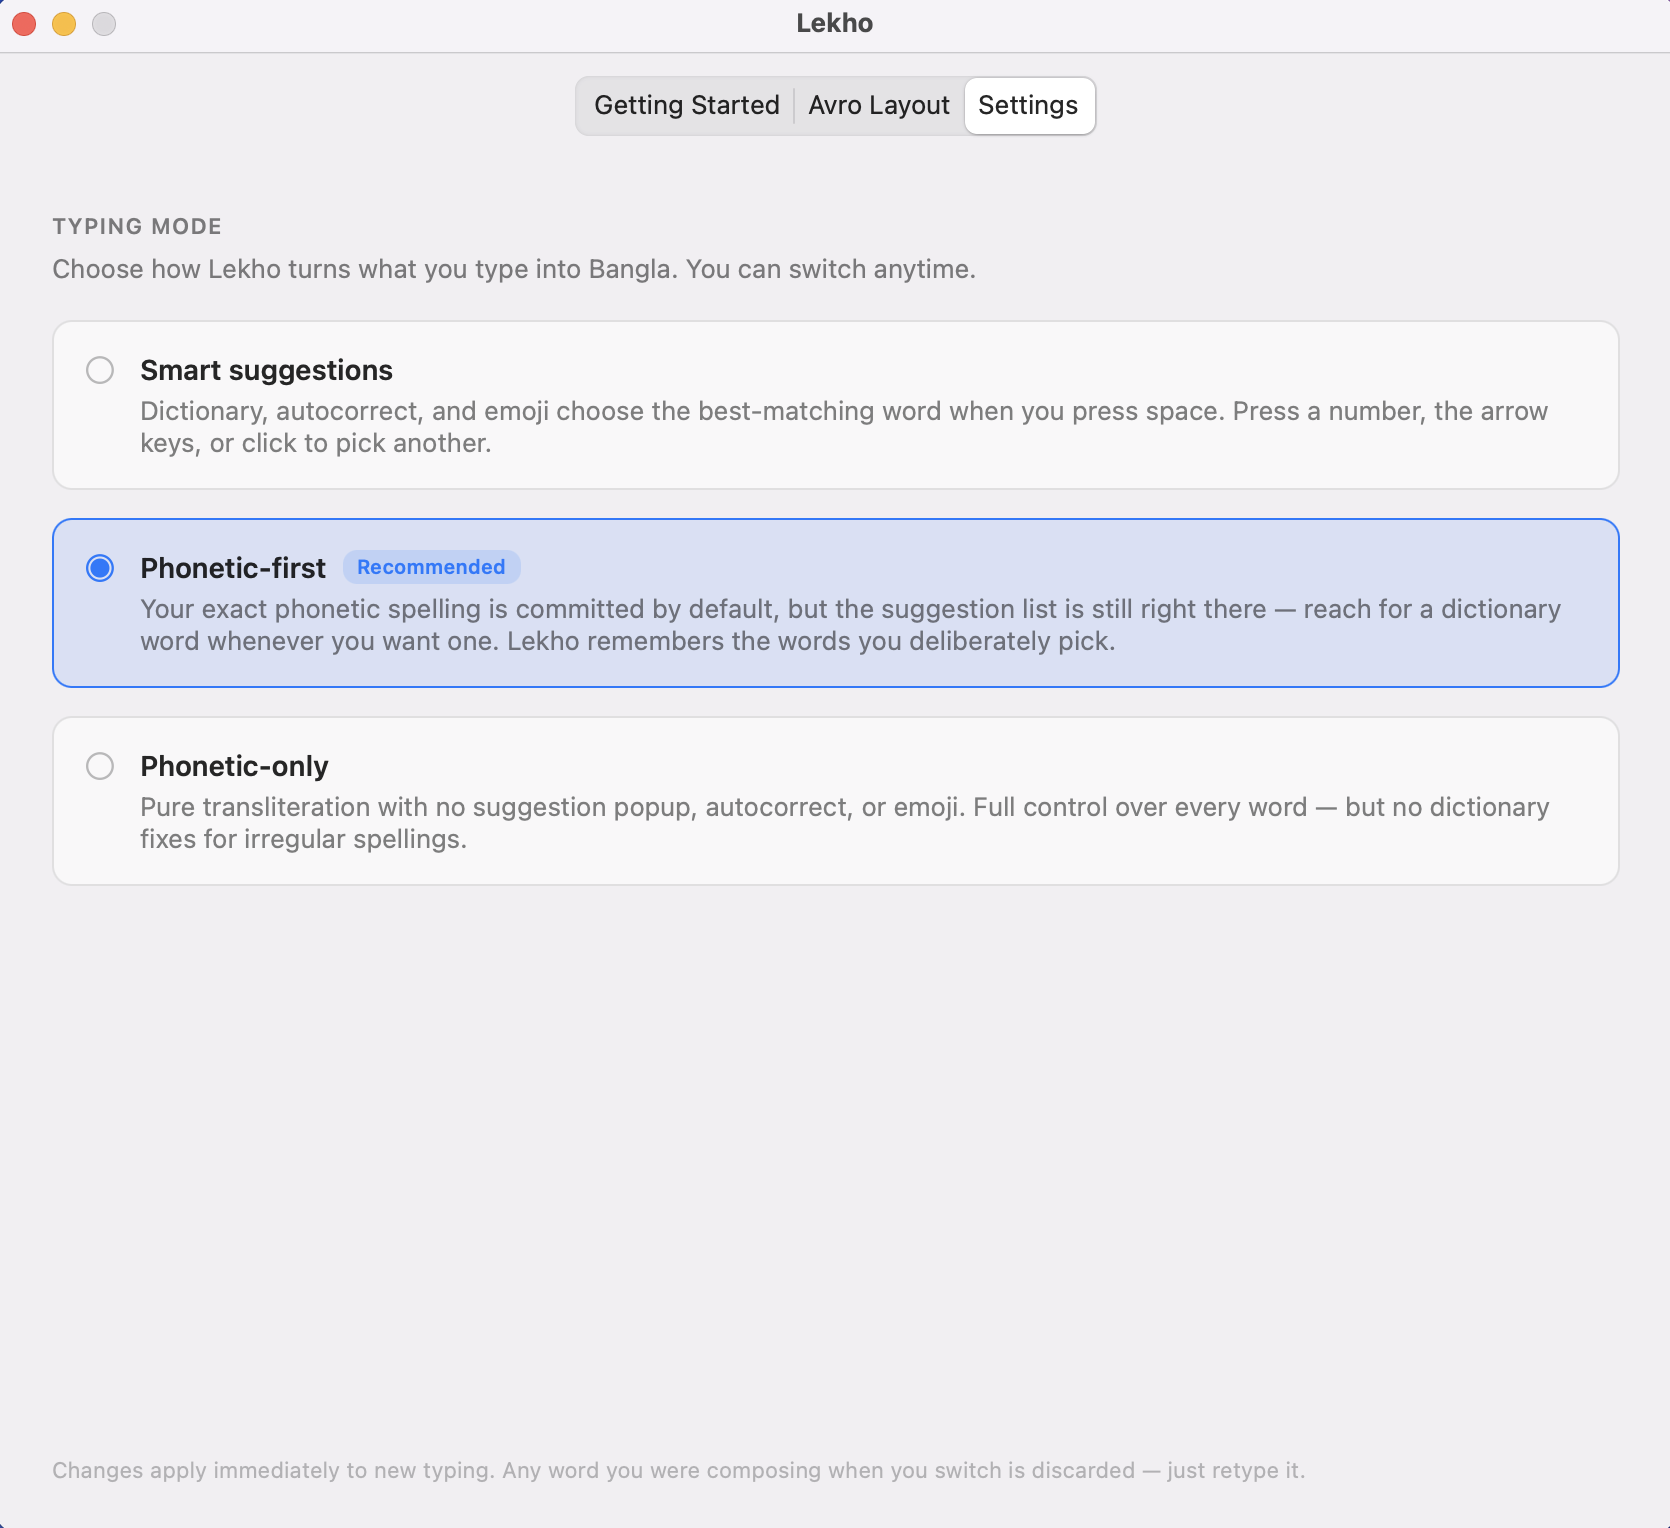
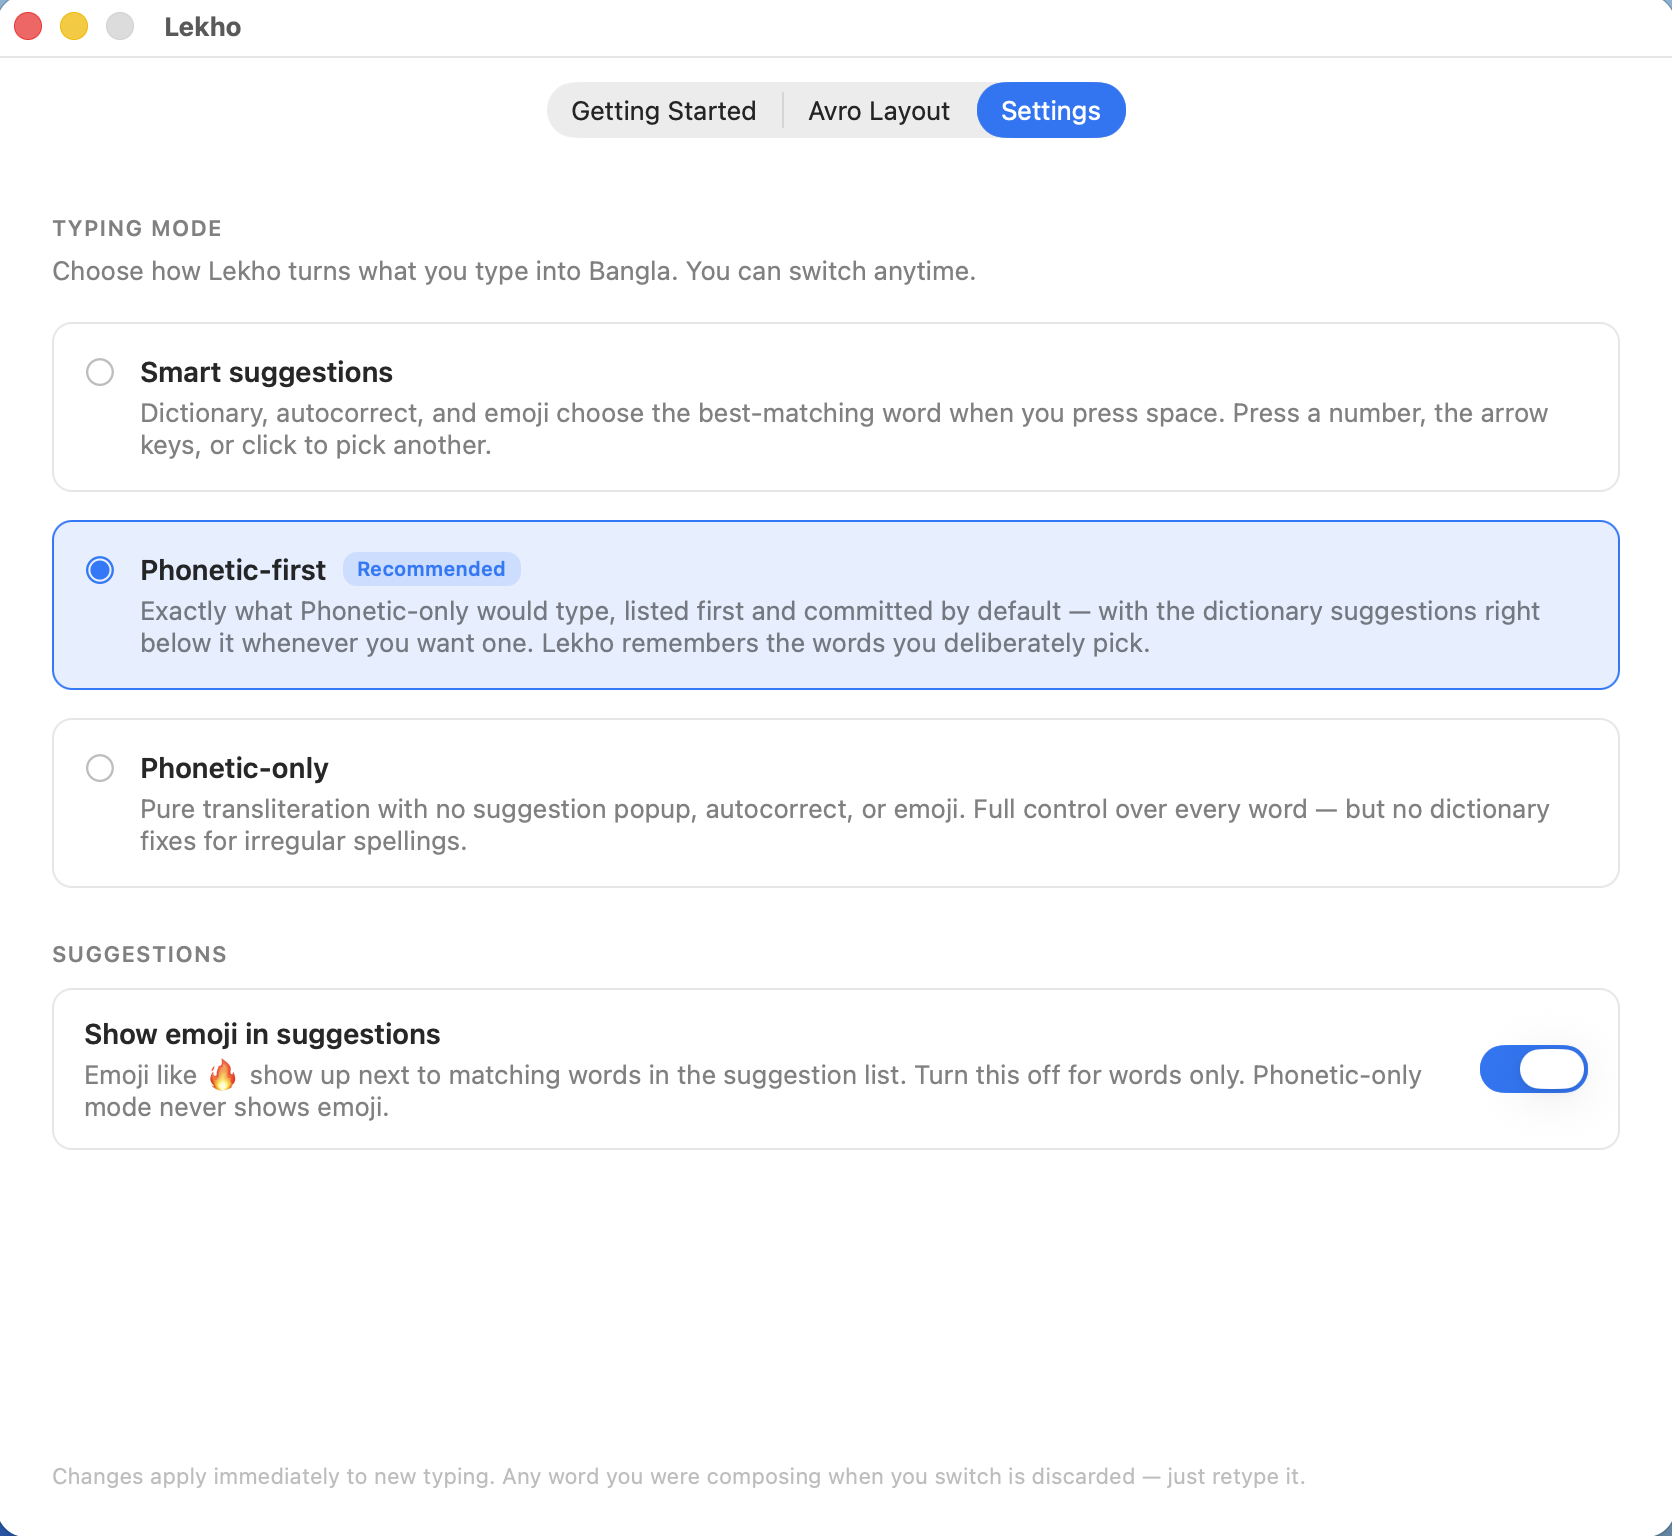
v0.3.0: Phonetic-first fix, emoji switch, shared engine, stale-buffer fix

diff --git a/docs/bn/index.html b/docs/bn/index.html
@@ -24,7 +24,7 @@
         />
         <meta
             property="og:description"
-            content="নেটিভ Apple Silicon বাংলা কিবোর্ড। ফ্রি। ~২.৭MB। কেবল কাজ করে।"
+            content="নেটিভ Apple Silicon বাংলা কিবোর্ড। ফ্রি। ~২.২MB। কেবল কাজ করে।"
         />
         <meta property="og:type" content="website" />
         <meta property="og:locale" content="bn_BD" />
@@ -43,7 +43,7 @@
         />
         <meta
             name="twitter:description"
-            content="নেটিভ Apple Silicon বাংলা কিবোর্ড। ফ্রি। ~২.৭MB। কেবল কাজ করে।"
+            content="নেটিভ Apple Silicon বাংলা কিবোর্ড। ফ্রি। ~২.২MB। কেবল কাজ করে।"
         />
         <meta
             name="twitter:image"
@@ -63,7 +63,7 @@
             "processorRequirements": "Apple Silicon (M1, M2, M3, M4, M5)",
             "applicationCategory": "UtilitiesApplication",
             "applicationSubCategory": "Input Method",
-            "fileSize": "2.7MB",
+            "fileSize": "2.2MB",
             "offers": {
                 "@type": "Offer",
                 "price": "0",
@@ -74,7 +74,7 @@
                 "name": "Abdur Rahim",
                 "url": "https://github.com/ARahim3"
             },
-            "softwareVersion": "0.2",
+            "softwareVersion": "0.3",
             "license": "https://opensource.org/licenses/MPL-2.0",
             "inLanguage": "bn",
             "keywords": "অভ্র কিবোর্ড ম্যাক, বাংলা কিবোর্ড ম্যাক, বাংলা টাইপিং ম্যাক, avro keyboard mac, bangla typing macbook"
@@ -149,6 +149,14 @@
                     "acceptedAnswer": {
                         "@type": "Answer",
                         "text": "হ্যাঁ। 'brew install --cask arahim3/lekho/lekho' রান করুন — এই full form-এ tap auto-set হয়, এক কমান্ডেই কাজ চলে। আপডেট: 'brew upgrade --cask lekho'; uninstall: 'brew uninstall --cask lekho'। Homebrew এবং GitHub Releases-এর DMG — দুটো পথেই Lekho ইনস্টল করা যায়।"
+                    }
+                },
+                {
+                    "@type": "Question",
+                    "name": "ইমোজি বা সাজেশন পপ-আপ বন্ধ করা যায়?",
+                    "acceptedAnswer": {
+                        "@type": "Answer",
+                        "text": "হ্যাঁ। Lekho অ্যাপ খুলে Settings-এ যান। 'Show emoji in suggestions' বন্ধ করলে সাজেশন থাকবে, ইমোজি থাকবে না। পপ-আপ একদমই না চাইলে Phonetic-only মোড বেছে নিন। Phonetic-first মোডে আপনি যা লিখবেন ঠিক তা-ই বসবে, সাজেশন থাকবে ঠিক নিচে।"
                     }
                 }
             ]
@@ -1794,7 +1802,7 @@
                 <div class="hero-content">
                     <div class="hero-badge">
                         <span class="hero-badge-dot"></span>
-                        v0.2 — এখন সব অ্যাপেই চলে, আরও মসৃণ
+                        v0.3 — যা লিখবেন ঠিক তা-ই বসবে। ইমোজি আপনার ইচ্ছায়।
                     </div>
                     <h1>
                         অভ্র ফোনেটিকে বাংলা লেখা,<br /><span class="highlight"
@@ -1839,7 +1847,7 @@
                     </div>
                     <div class="hero-meta">
                         <div class="hero-meta-item">
-                            <span class="hero-meta-value">~২.৭ MB</span>
+                            <span class="hero-meta-value">~২.২ MB</span>
                             <span class="hero-meta-label">ডাউনলোড সাইজ</span>
                         </div>
                         <div class="hero-meta-item">
@@ -1919,14 +1927,15 @@
                             <span class="bangla" lang="bn">কান্না</span> লিখলে 😢 দেখাবে,
                             <span class="bangla" lang="bn">বাংলাদেশ</span> লিখলে 🇧🇩।
                             আপনি যেটা বেশি বাছেন, সেটা মনে রাখে।
-                            Settings থেকে বেছে নিন — <em>Phonetic-first</em> মোডে আপনার
-                            লেখা বানানই ডিফল্টে বসবে, তবু সাজেশন এক চাপ দূরে; আর
-                            <em>Phonetic-only</em> মোডে সাজেশন একদম বন্ধ।
+                            Settings থেকে বেছে নিন — <em>Phonetic-first</em> মোডে আপনি
+                            যা লিখবেন ঠিক তা-ই বসবে, সাজেশন থাকবে ঠিক নিচেই; আর
+                            <em>Phonetic-only</em> মোডে সাজেশন একদম বন্ধ। ইমোজি না চাইলে
+                            এক সুইচেই বন্ধ করা যায়।
                         </p>
                     </div>
                     <div class="feature-card animate-on-scroll">
                         <div class="feature-icon">🪶</div>
-                        <h3>~২.৭ MB। একদম হালকা।</h3>
+                        <h3>~২.২ MB। একদম হালকা।</h3>
                         <p>
                             Electron নেই, Java নেই, ব্যাকগ্রাউন্ডে কিছু ঘোরে না।
                             সঙ্গে সঙ্গে চালু, কাজ না থাকলে CPU ছোঁয় না।
@@ -2033,7 +2042,7 @@
                     </div>
                 </div>
                 <div class="install-note animate-on-scroll">
-                    <strong>v0.2:</strong> এখন সব অ্যাপেই চলে — Chrome, Notes, Mail, Obsidian, যেটাই বলুন।
+                    <strong>v0.3:</strong> এখন সব অ্যাপেই চলে — Chrome, Notes, Mail, Obsidian, যেটাই বলুন।
                     কোনো বাগ পেলেন?
                     <a
                         href="https://github.com/ARahim3/Lekho/issues"
@@ -2218,6 +2227,15 @@
                         আপডেট: <code>brew upgrade --cask lekho</code>; মুছতে:
                         <code>brew uninstall --cask lekho</code>। Homebrew ছাড়াও
                         GitHub Releases থেকে DMG নামিয়ে ইনস্টল করা যায়।
+                    </p>
+                </details>
+                <details class="animate-on-scroll">
+                    <summary>ইমোজি বা সাজেশন পপ-আপ বন্ধ করা যায়?</summary>
+                    <p>
+                        হ্যাঁ। লেখো অ্যাপ খুলে <strong>Settings</strong>-এ যান।
+                        <em>Show emoji in suggestions</em> বন্ধ করলে সাজেশন থাকবে, ইমোজি থাকবে না।
+                        পপ-আপ একদমই না চাইলে <em>Phonetic-only</em> মোড বেছে নিন।
+                        <em>Phonetic-first</em> মোডে আপনি যা লিখবেন ঠিক তা-ই বসবে, সাজেশন থাকবে ঠিক নিচে।
                     </p>
                 </details>
             </section>

diff --git a/docs/index.html b/docs/index.html
@@ -24,7 +24,7 @@
         />
         <meta
             property="og:description"
-            content="Native Apple Silicon Bengali keyboard. Free. ~2.6MB. Just works."
+            content="Native Apple Silicon Bengali keyboard. Free. ~2.2MB. Just works."
         />
         <meta property="og:type" content="website" />
         <meta
@@ -41,7 +41,7 @@
         />
         <meta
             name="twitter:description"
-            content="Native Apple Silicon Bengali keyboard. Free. ~2.6MB. Just works."
+            content="Native Apple Silicon Bengali keyboard. Free. ~2.2MB. Just works."
         />
         <meta
             name="twitter:image"
@@ -61,7 +61,7 @@
             "processorRequirements": "Apple Silicon (M1, M2, M3, M4, M5)",
             "applicationCategory": "UtilitiesApplication",
             "applicationSubCategory": "Input Method",
-            "fileSize": "2.7MB",
+            "fileSize": "2.2MB",
             "offers": {
                 "@type": "Offer",
                 "price": "0",
@@ -72,7 +72,7 @@
                 "name": "Abdur Rahim",
                 "url": "https://github.com/ARahim3"
             },
-            "softwareVersion": "0.2",
+            "softwareVersion": "0.3",
             "license": "https://opensource.org/licenses/MPL-2.0",
             "inLanguage": ["en", "bn"],
             "keywords": "avro keyboard mac, bangla keyboard macos, bengali typing macbook, avro phonetic apple silicon"
@@ -146,6 +146,14 @@
                     "acceptedAnswer": {
                         "@type": "Answer",
                         "text": "Yes. Run 'brew install --cask arahim3/lekho/lekho' to install — the fully-qualified form auto-taps the personal tap, so it works in a single command. Update with 'brew upgrade --cask lekho' and uninstall with 'brew uninstall --cask lekho'. Both Homebrew and the GitHub Releases DMG are supported install paths."
+                    }
+                },
+                {
+                    "@type": "Question",
+                    "name": "Can I turn off emoji or the suggestion popup?",
+                    "acceptedAnswer": {
+                        "@type": "Answer",
+                        "text": "Yes. Open the Lekho app and go to Settings. Turn off 'Show emoji in suggestions' to keep the suggestion popup without emoji, or choose Phonetic-only mode for no popup at all. Phonetic-first mode types exactly what you spell and keeps the suggestions right below it."
                     }
                 }
             ]
@@ -1796,7 +1804,7 @@
                 <div class="hero-content">
                     <div class="hero-badge">
                         <span class="hero-badge-dot"></span>
-                        v0.2 — Works everywhere, improved &amp; polished
+                        v0.3 — Types exactly what you spell. Emoji optional.
                     </div>
                     <h1>
                         Avro Phonetic typing is<br /><span class="highlight"
@@ -1842,7 +1850,7 @@
                     </div>
                     <div class="hero-meta">
                         <div class="hero-meta-item">
-                            <span class="hero-meta-value">~2.7 MB</span>
+                            <span class="hero-meta-value">~2.2 MB</span>
                             <span class="hero-meta-label">Download</span>
                         </div>
                         <div class="hero-meta-item">
@@ -1927,15 +1935,16 @@
                             <span class="bangla" lang="bn">কান্না</span> suggests 😢,
                             <span class="bangla" lang="bn">বাংলাদেশ</span> suggests 🇧🇩.
                             Your preferred candidates are remembered.
-                            All optional — choose <em>Phonetic-first</em> to commit
-                            your exact spelling by default with the suggestion list
-                            still a keypress away, or <em>Phonetic-only</em> for none
-                            at all. Switch anytime in Settings.
+                            All optional — choose <em>Phonetic-first</em> to get
+                            exactly what you spelled, with the suggestion list
+                            right below it, or <em>Phonetic-only</em> for no popup
+                            at all. Don't want emoji? One switch turns them off.
+                            Change anytime in Settings.
                         </p>
                     </div>
                     <div class="feature-card animate-on-scroll">
                         <div class="feature-icon">🪶</div>
-                        <h3>~2.7 MB. Zero Bloat.</h3>
+                        <h3>~2.2 MB. Zero Bloat.</h3>
                         <p>
                             Native Apple Silicon binary. No Electron, no Java,
                             no background daemon. Instant startup, zero CPU when
@@ -2047,7 +2056,7 @@
                     </div>
                 </div>
                 <div class="install-note animate-on-scroll">
-                    <strong>v0.2:</strong> Works everywhere — Chrome, Notes, Mail, Obsidian, you name it. Found a bug?
+                    <strong>v0.3:</strong> Works everywhere — Chrome, Notes, Mail, Obsidian, you name it. Found a bug?
                     <a
                         href="https://github.com/ARahim3/Lekho/issues"
                         target="_blank"
@@ -2224,6 +2233,24 @@
                         Install Lekho, then go to System Settings → Keyboard → Input Sources → click + →
                         search "Lekho" → Add. Switch to it with the Globe key or Ctrl+Space. Then just type
                         in English and it converts to Bengali phonetically — for example, type "ami" to get "আমি".
+                    </p>
+                </details>
+                <details class="animate-on-scroll">
+                    <summary>Can I install Lekho with Homebrew?</summary>
+                    <p>
+                        Yes. Run <code>brew install --cask arahim3/lekho/lekho</code> and you're done.
+                        Update with <code>brew upgrade --cask lekho</code>, remove with
+                        <code>brew uninstall --cask lekho</code>. Prefer not to use Homebrew? The DMG from
+                        GitHub Releases works just as well.
+                    </p>
+                </details>
+                <details class="animate-on-scroll">
+                    <summary>Can I turn off emoji or the suggestion popup?</summary>
+                    <p>
+                        Yes. Open the Lekho app and go to <strong>Settings</strong>. Turn off
+                        <em>Show emoji in suggestions</em> to keep the suggestion popup without emoji, or pick
+                        <em>Phonetic-only</em> for no popup at all. <em>Phonetic-first</em> types exactly
+                        what you spell and keeps the suggestions right below it.
                     </p>
                 </details>
             </section>
